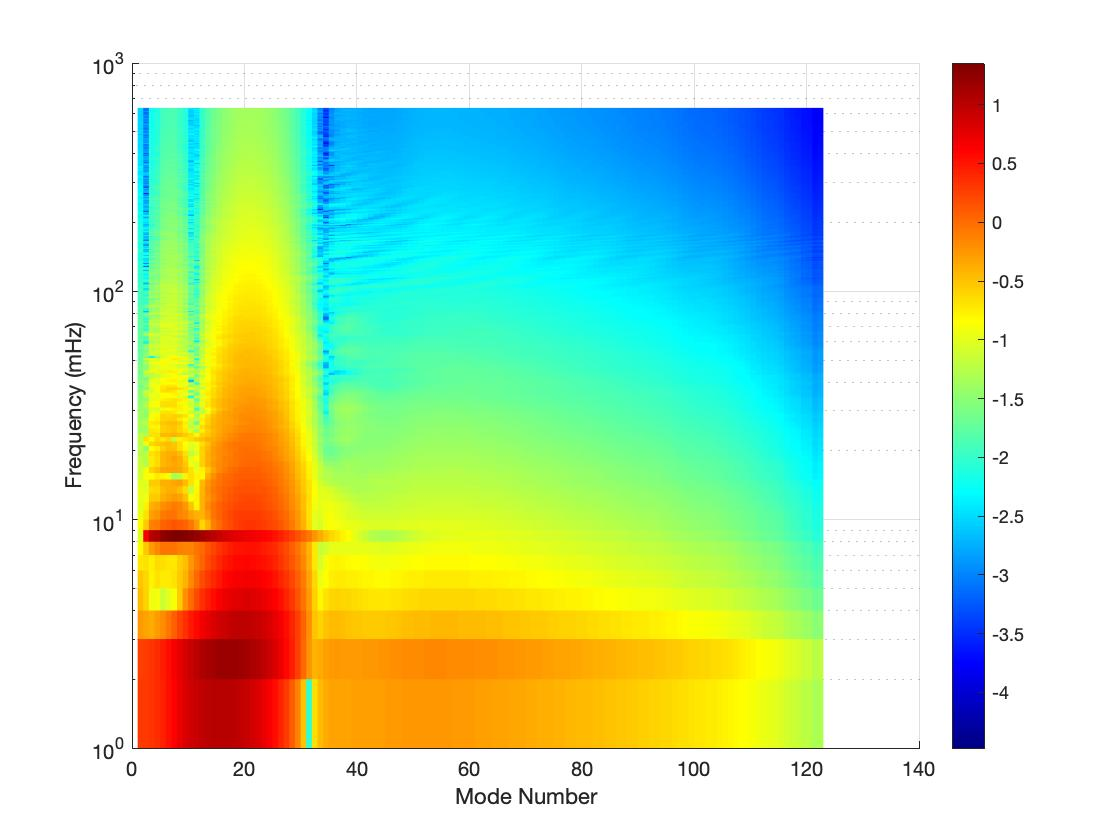
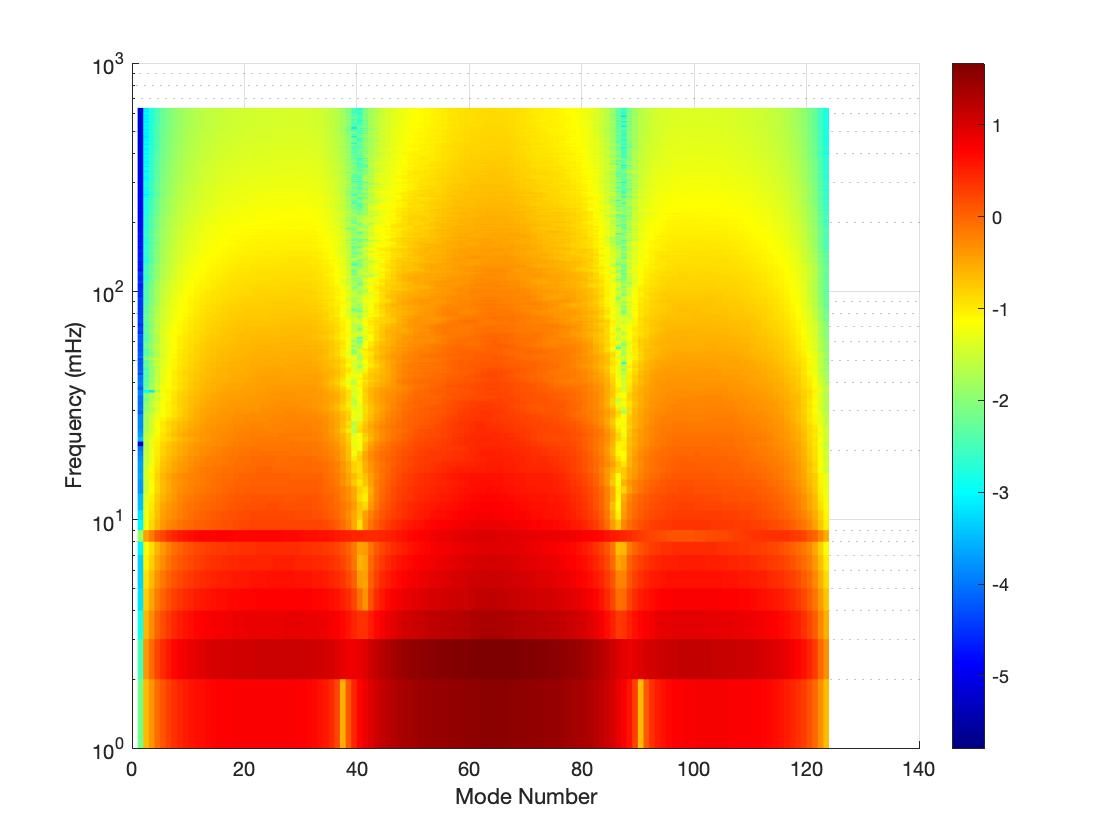
updated model parameters uni7,8 revised pod.m plot results

diff --git a/include/iosmaugparams.washing_mach_180_h12p5Mm_kg_uni8.h b/include/iosmaugparams.washing_mach_180_h12p5Mm_kg_uni8.h
@@ -98,11 +98,11 @@ char configfile[300];
 //char *cfgfile="configs/3D_10_10_6_tube_asc.ini";
 //char *cfgfile="configs/spruit_const_asc.ini";
 //char *cfgfile="configs/3D_10_10_6_asc.ini";
-//char *cfgfile="/fastdata/cs1mkg/smaug_wash/washmc_2p5_2p5_12p5_mach180_uni6/washmc_asc_635000.ini";
+char *cfgfile="/fastdata/cs1mkg/smaug_wash/washmc_2p5_2p5_12p5_mach180_uni8/washmc_asc_545000.ini";
 //char *cfgfile="/fastdata/cs1mkg/smaug/washing_mach/washmc_asc_499000.ini";
 
 
-char *cfgfile="configs/3D_128_2p5_2p5_12p5_p0375T_asc_udvmft.ini";
+//char *cfgfile="configs/3D_128_2p5_2p5_12p5_p0375T_asc_udvmft.ini";
 //char *cfgfile="zero1_BW_bin.ini";
 //char *cfgout="3D_tube_128_128_128";
 //char *cfgout="/fastdata/cs1mkg/sac_cuda/out_ndriver_nohyp_npgft/3D_tube_128_128_128";
@@ -158,11 +158,11 @@ printf("runsim 1%d \n",nt);
 for(i=0;i<nt;i++)
 		t[i]=i*dt;
 
-//p->qt=635.0;
-//p->it=635000;
+p->qt=545.0;
+p->it=545000;
 
-p->qt=0;
-p->it=0;
+//p->qt=0;
+//p->it=0;
 
 
 //real courant = wavespeed*dt/dx;

diff --git a/include/iosmaugparams.washing_mach_180_h12p5Mm_kg_uni7.h b/include/iosmaugparams.washing_mach_180_h12p5Mm_kg_uni7.h
@@ -98,11 +98,11 @@ char configfile[300];
 //char *cfgfile="configs/3D_10_10_6_tube_asc.ini";
 //char *cfgfile="configs/spruit_const_asc.ini";
 //char *cfgfile="configs/3D_10_10_6_asc.ini";
-//char *cfgfile="/fastdata/cs1mkg/smaug_wash/washmc_2p5_2p5_12p5_mach180_uni6/washmc_asc_635000.ini";
+char *cfgfile="/fastdata/cs1mkg/smaug_wash/washmc_2p5_2p5_12p5_mach180_uni7/washmc_asc_544000.ini";
 //char *cfgfile="/fastdata/cs1mkg/smaug/washing_mach/washmc_asc_499000.ini";
 
 
-char *cfgfile="configs/3D_128_2p5_2p5_12p5_p3T_asc_udvmft.ini";
+//char *cfgfile="configs/3D_128_2p5_2p5_12p5_p3T_asc_udvmft.ini";
 //char *cfgfile="zero1_BW_bin.ini";
 //char *cfgout="3D_tube_128_128_128";
 //char *cfgout="/fastdata/cs1mkg/sac_cuda/out_ndriver_nohyp_npgft/3D_tube_128_128_128";
@@ -158,11 +158,11 @@ printf("runsim 1%d \n",nt);
 for(i=0;i<nt;i++)
 		t[i]=i*dt;
 
-//p->qt=635.0;
-//p->it=635000;
+p->qt=544.0;
+p->it=544000;
 
-p->qt=0;
-p->it=0;
+//p->qt=0;
+//p->it=0;
 
 
 //real courant = wavespeed*dt/dx;

diff --git a/matlab/fftorig.m b/matlab/fftorig.m
@@ -3,7 +3,7 @@ md=122;
 
 
 bdir='/Users/mikegriffiths/proj';
-rdirectory='/washmc-data/uni6';
+rdirectory='/washmc-data/uni1';
 
 %directory=[bdir,rdirectory,'/matlabdat/'];
 directory=[bdir,rdirectory,'/'];
@@ -22,8 +22,9 @@ load(matfile);
 
 %nt=635;
 %S=evelv1Mm;  %vertical section at 0.5Mm 15 evelv2Mm_bz
-evelv=evelv2Mm_v;
+%evelv=evelv2Mm_v;
 %evelv=evelv2Mm_bz;
+evelv=evelchrom_vh;
 S=evelv(:,:,1:nt);
 
 %proper orthogonal decomposition
@@ -58,7 +59,7 @@ ylabel('|P1(f)|')
 fftsurf=zeros(636,124);
 
 for i=1:124
-    tsamp=reshape(S(27,i,:),nt,1);  %x-component is the height
+    tsamp=reshape(S(36,i,:),nt,1);  %x-component is the height
     Y = fft(tsamp);
     P2 = abs(Y/L);
     P1 = P2(1:L/2+1);

diff --git a/matlab/reconstruct_pod.m b/matlab/reconstruct_pod.m
@@ -43,7 +43,7 @@ ylabel('|P1(f)|')
 
 fftsurf=zeros(636,124);
 for i=1:124
-    tsamp=reshape(st(:,i,i),nt,1);
+    tsamp=reshape(st(:,36,i),nt,1);
     Y = fft(tsamp);
     P2 = abs(Y/L);
     P1 = P2(1:L/2+1);
